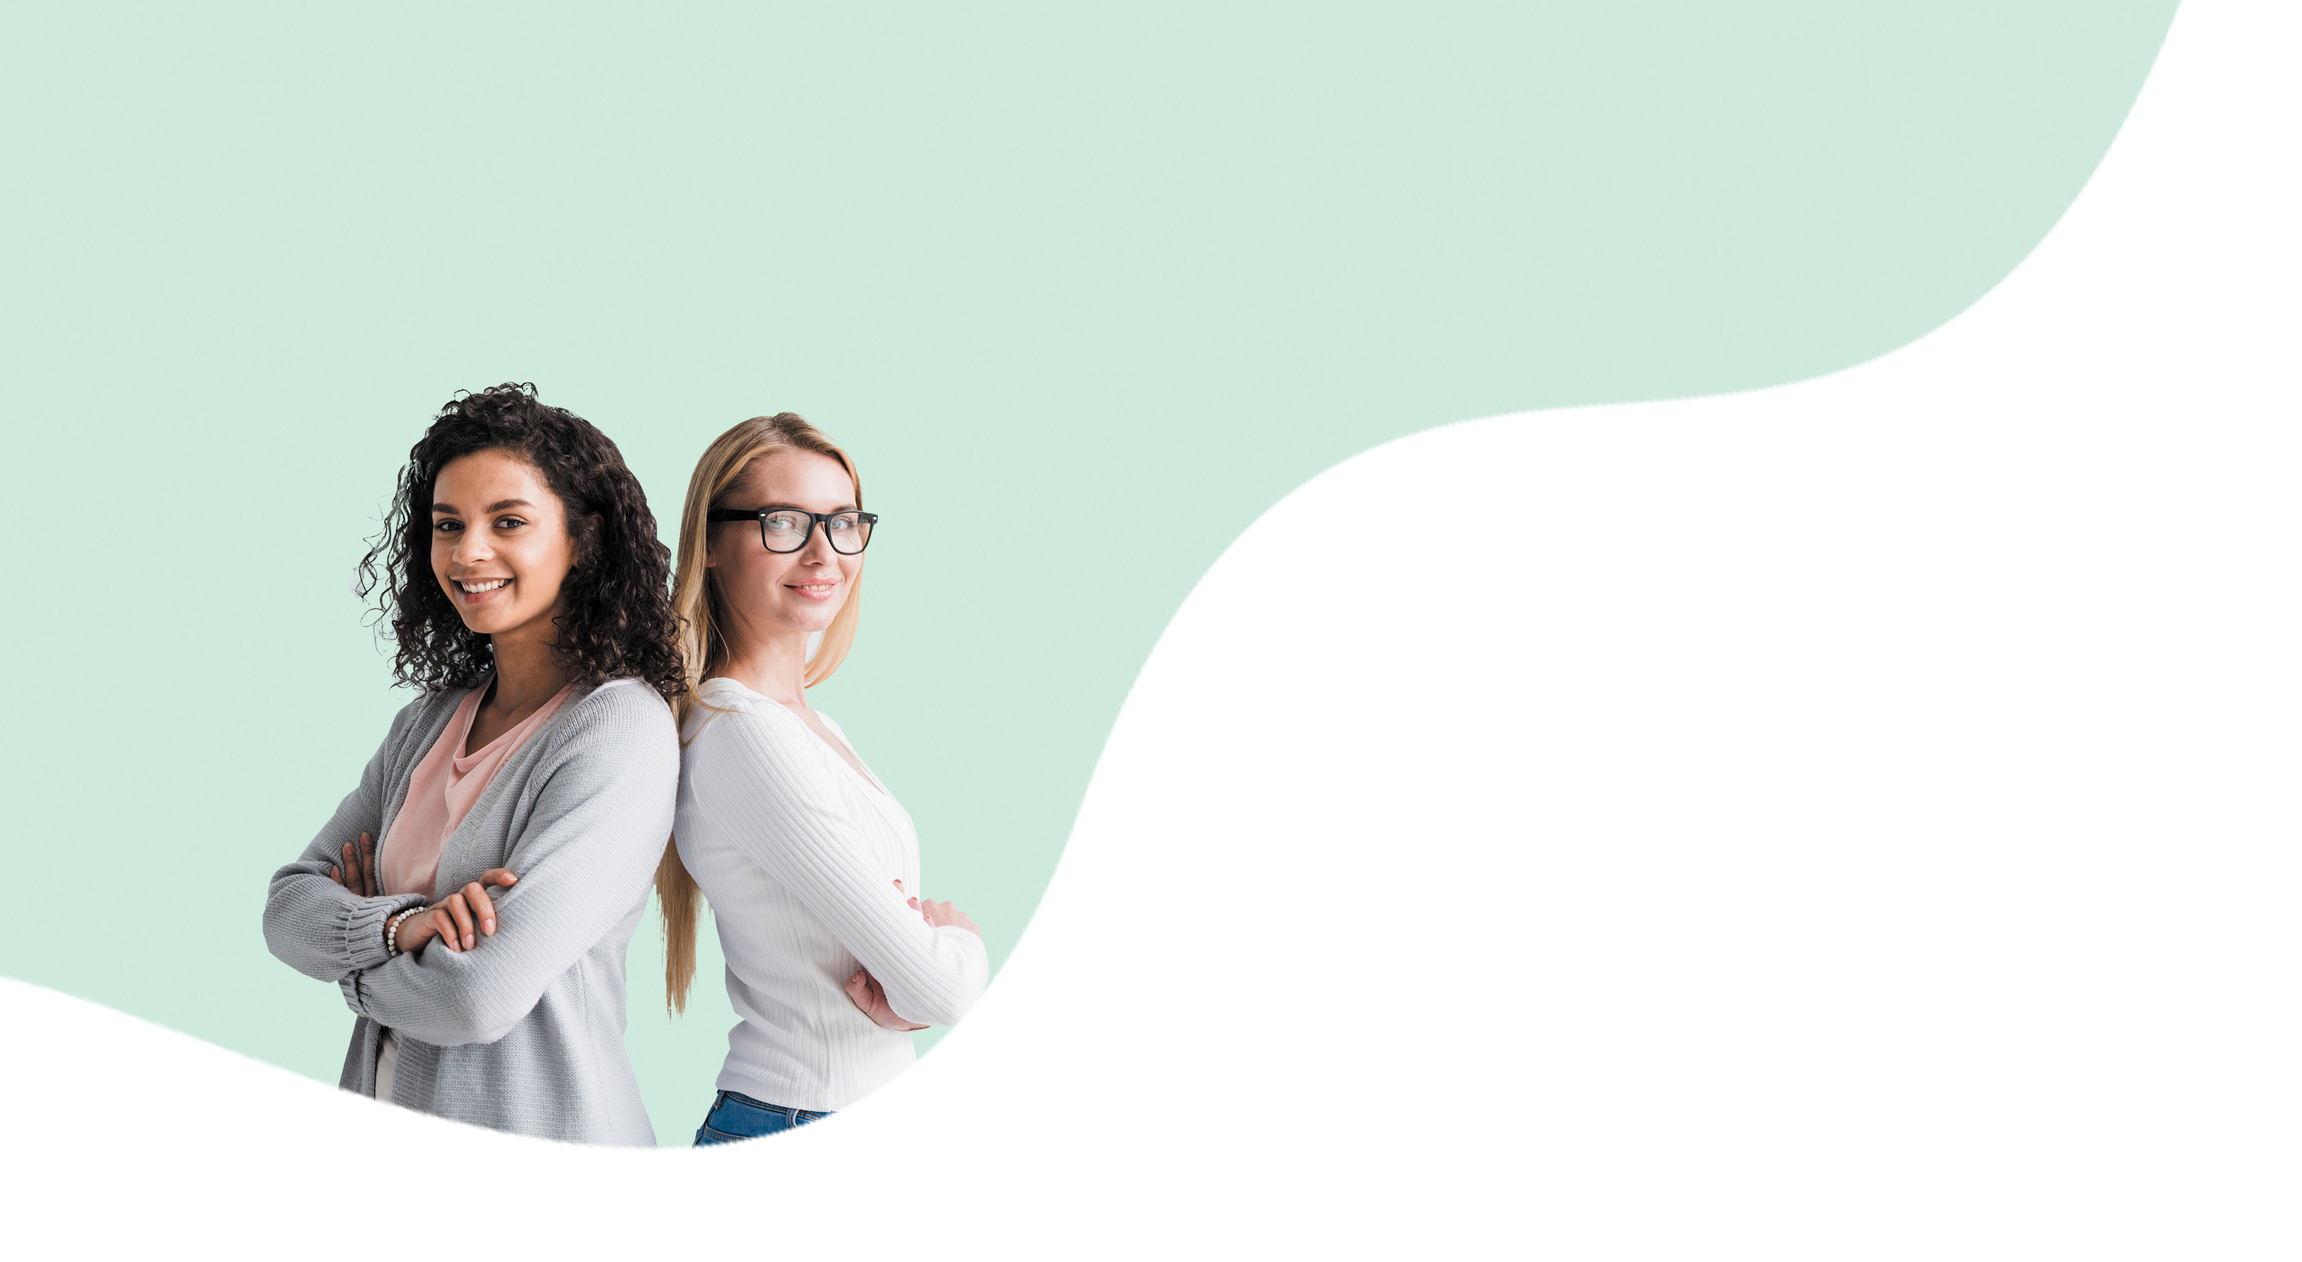
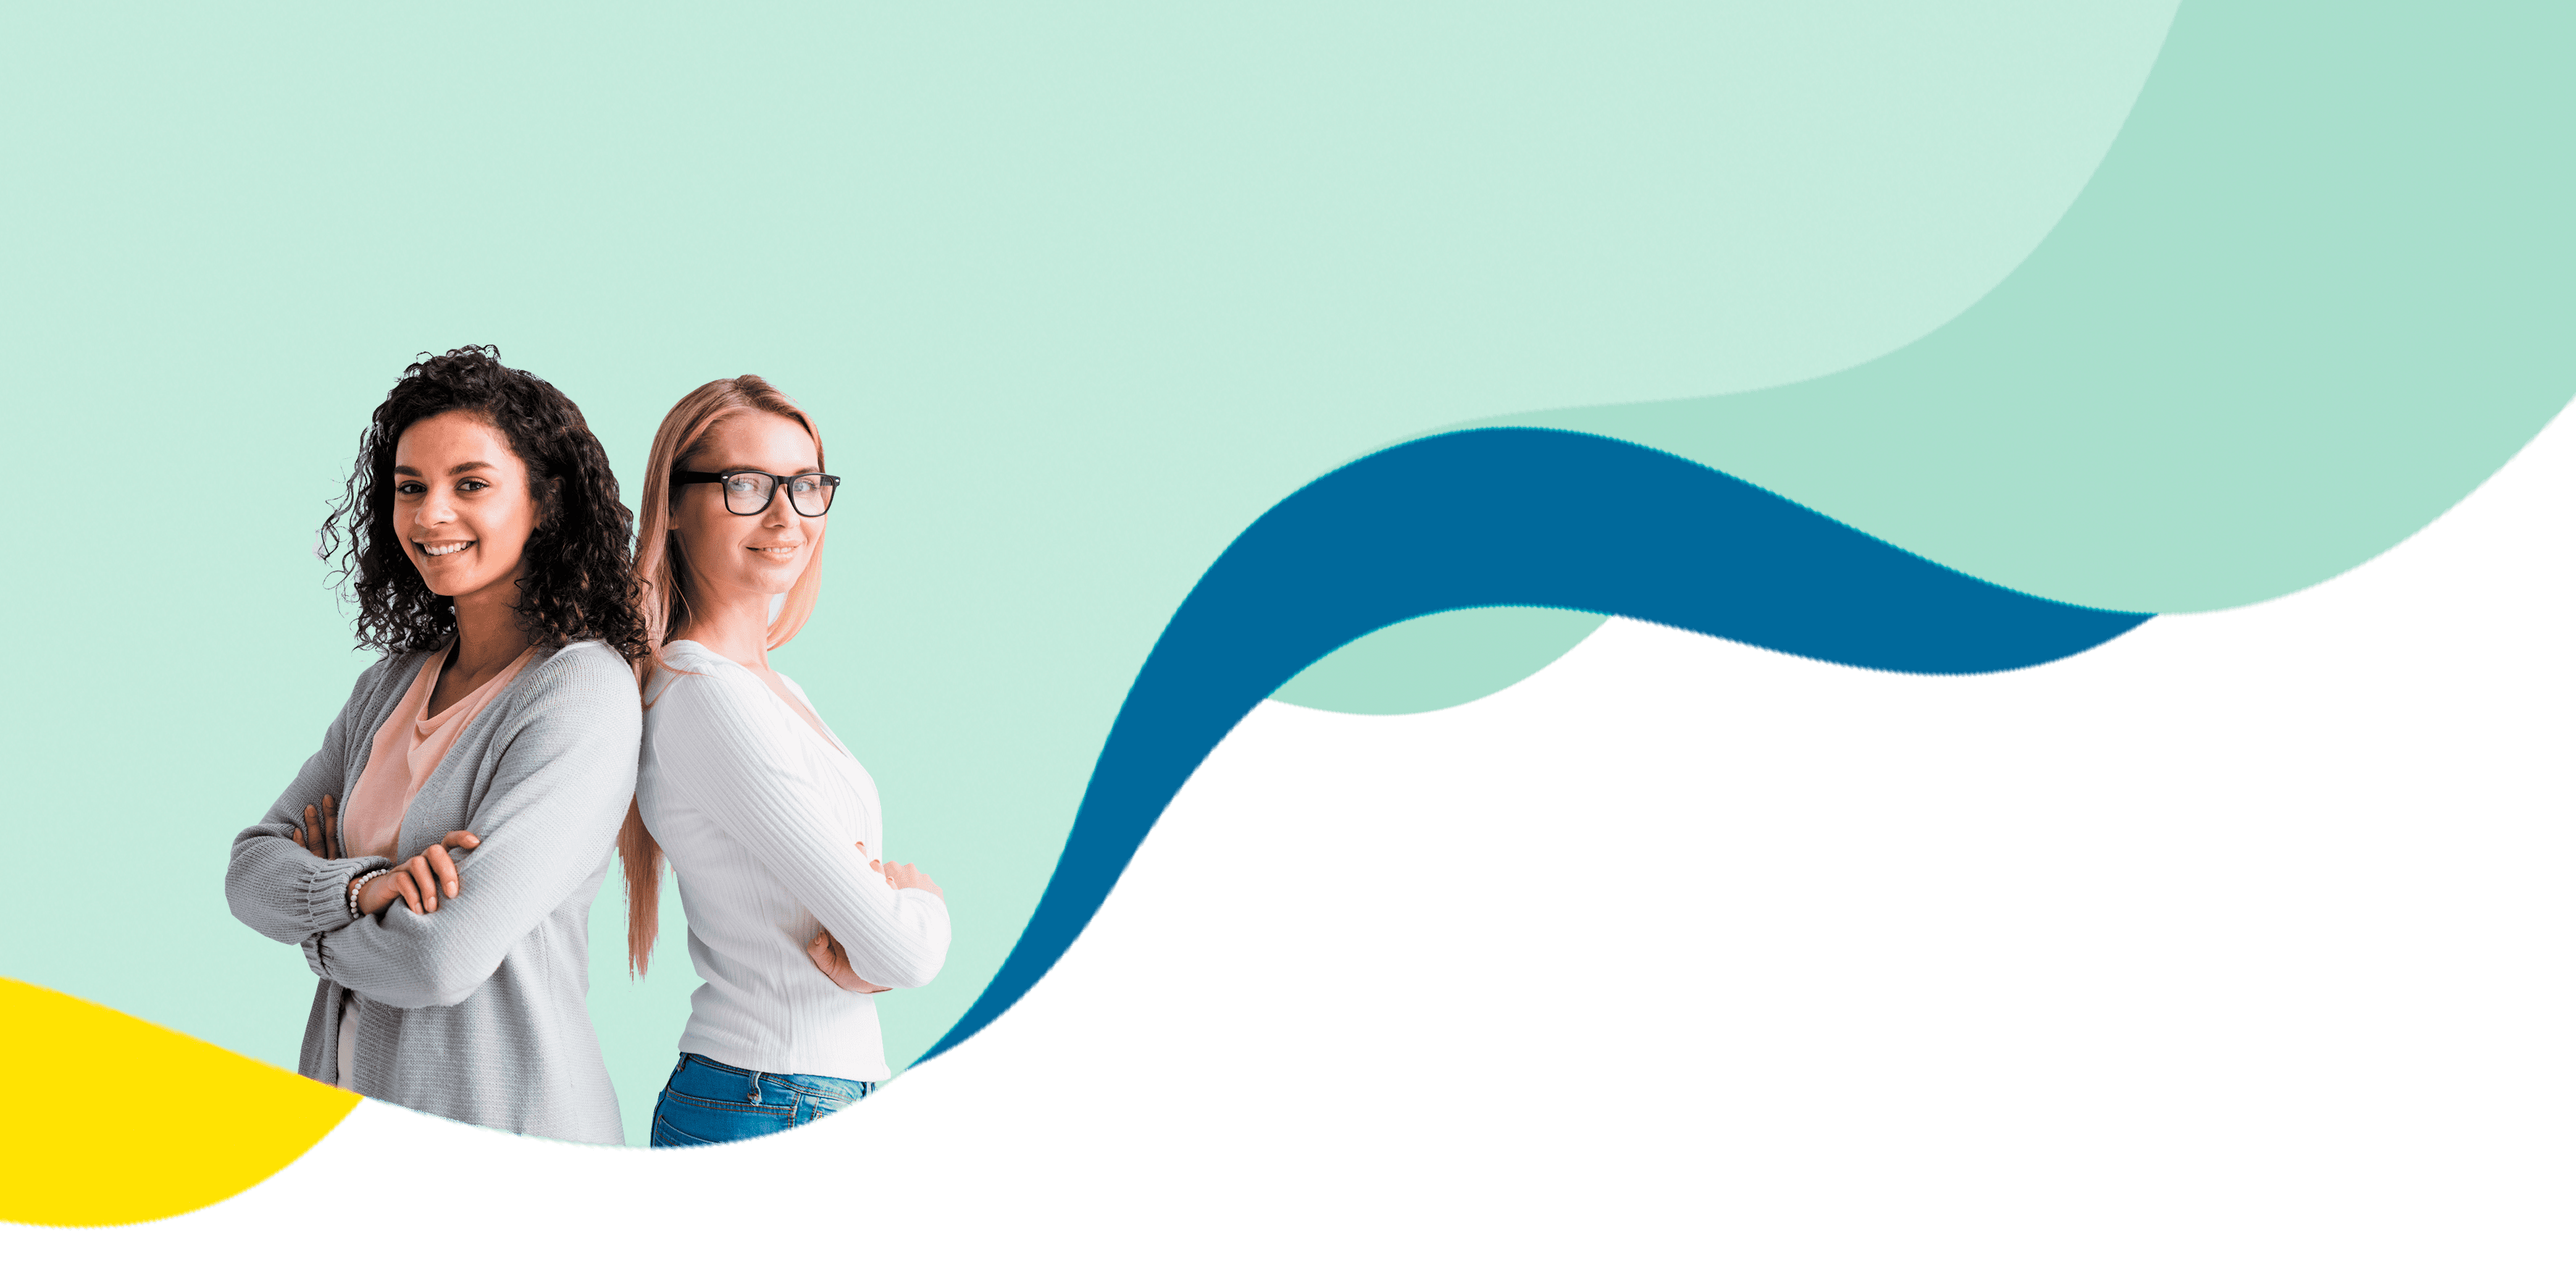
Вставив фонове зображення

diff --git a/index.html b/index.html
@@ -20,6 +20,12 @@
 </head>
 <body>
     <h1></h1>
+    <style>
+        body { background: url(images/Shape.png) no-repeat;
+            
+         }
+         
+      </style>
     <div id="header">  </div>
     <!-- + code -->
     

diff --git a/css/style.css b/css/style.css
@@ -1,5 +1,5 @@
-#header {
 
-    background: url(images/Shape.png);
+#header {
+   
 
 }
